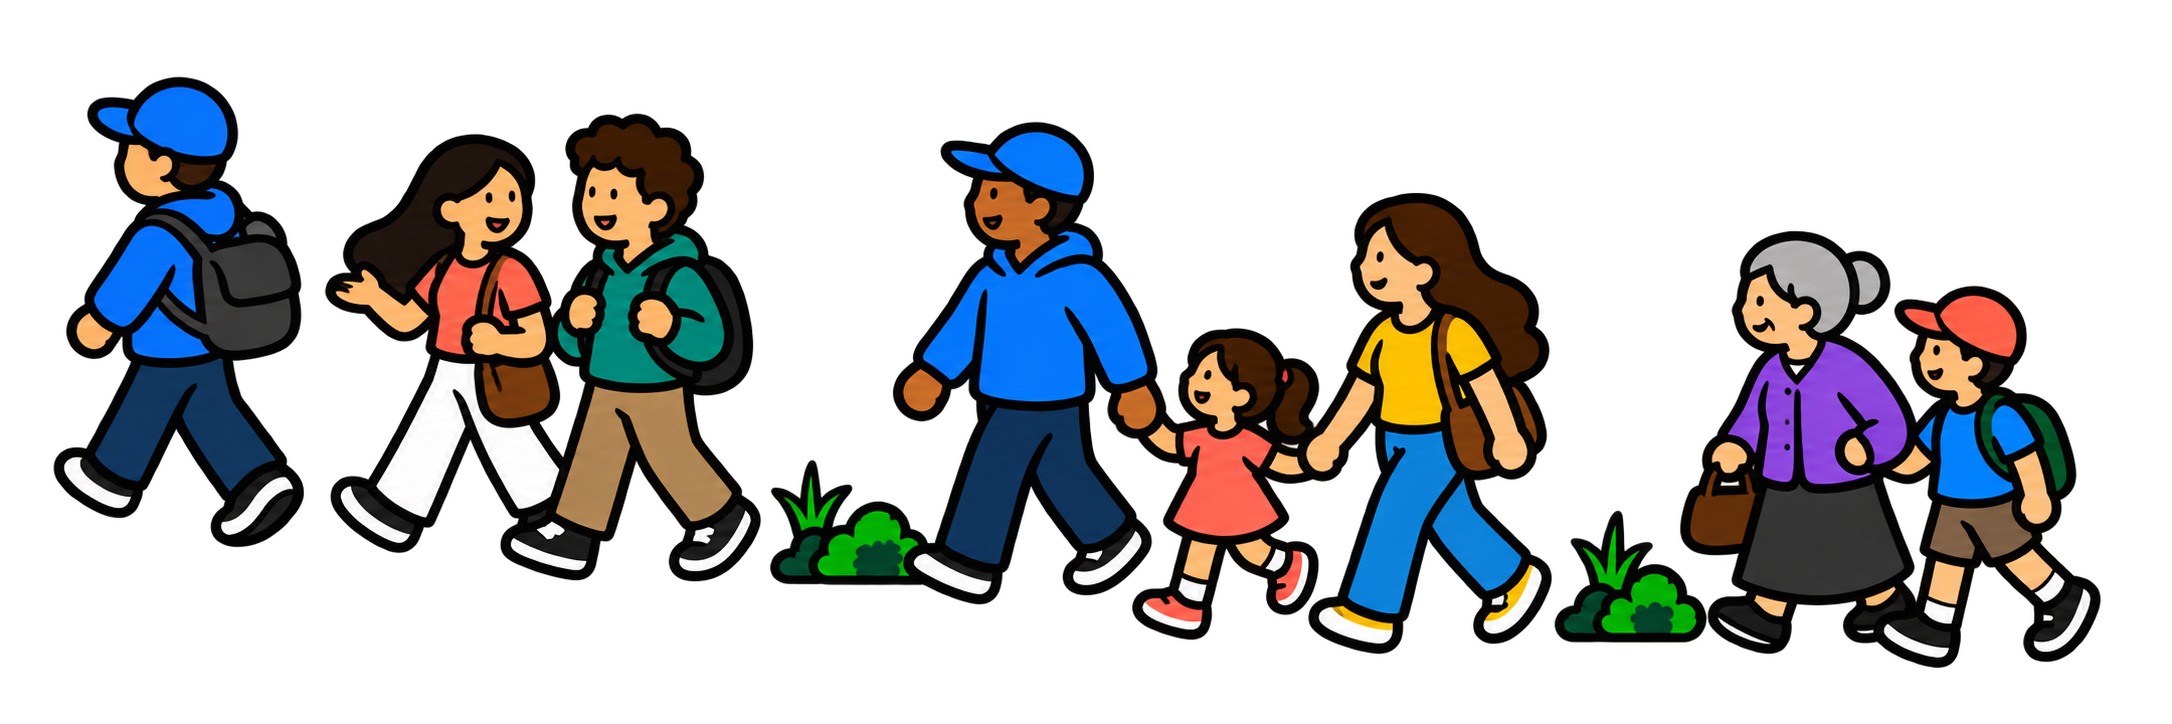
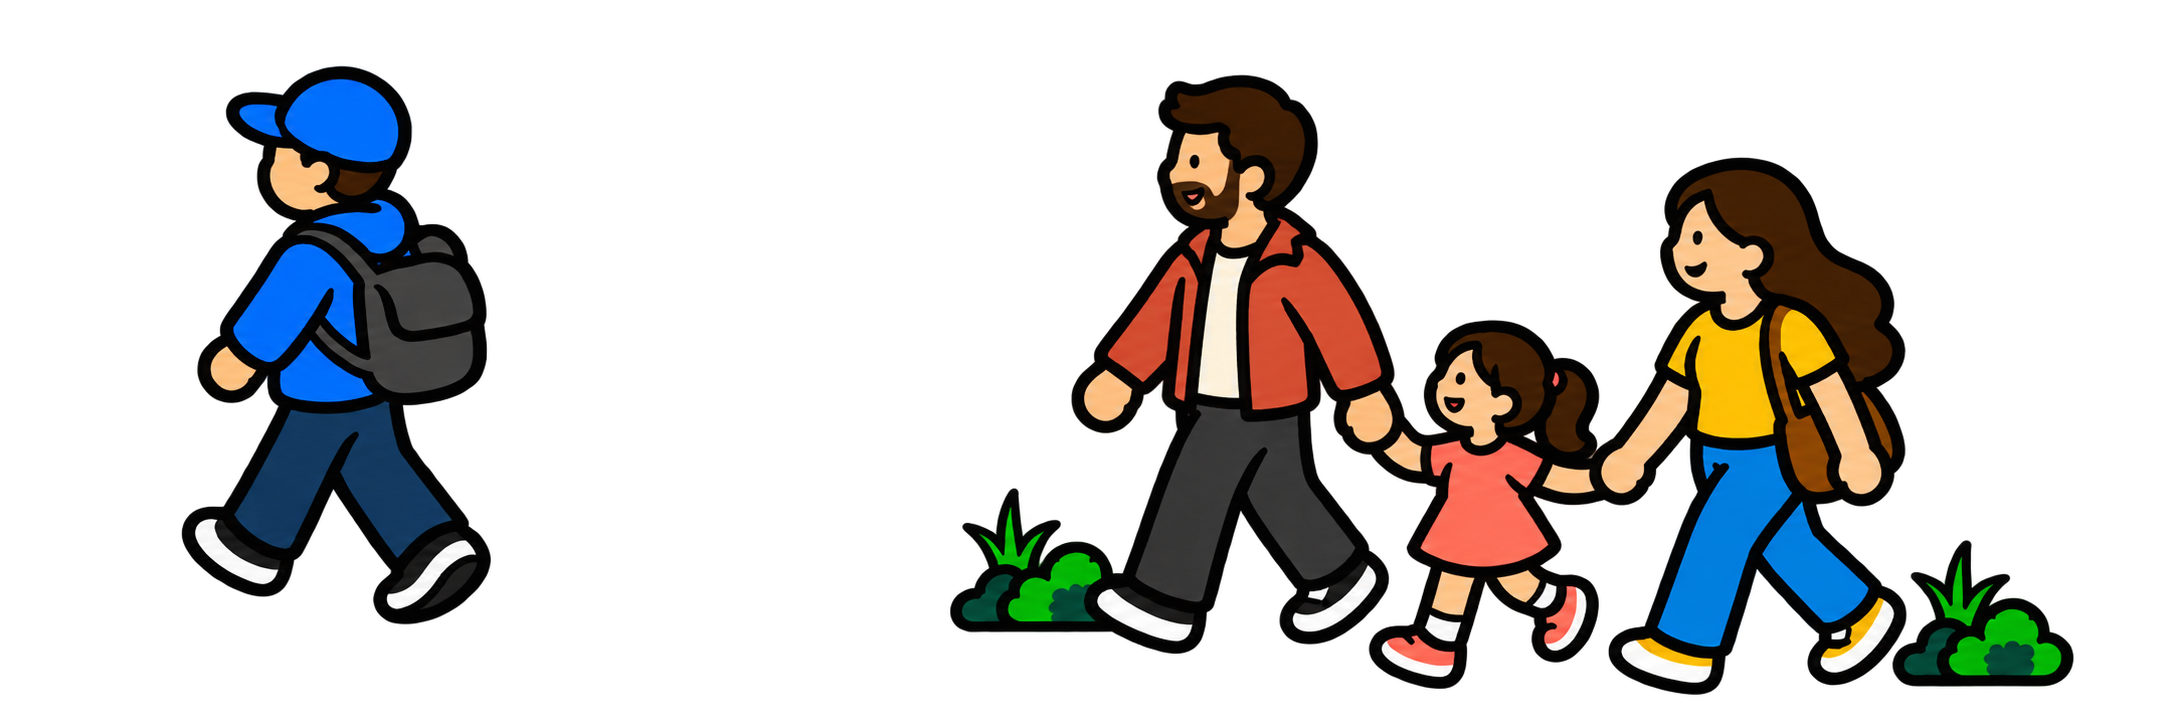
поправил расположение картинок

diff --git a/frontend/src/pages/Home.jsx b/frontend/src/pages/Home.jsx
@@ -116,38 +116,6 @@ export default function Home() {
         <ContactsCard className="home-address" />
         </div>
 
-        {/* Пожертвование */}
-        <div className="home-donate-column">
-        <Link
-          to="/donate"
-          className="home-donate"
-          ref={donationRef}
-          style={{
-            position: 'relative',
-            overflow: 'hidden',
-            borderRadius: 24,
-            background: 'var(--c-main)',
-            color: '#0d0d0d',
-            display: 'flex',
-            flexDirection: 'column',
-            justifyContent: 'space-between',
-            padding: '22px 18px',
-          }}
-        >
-          <div style={{ alignSelf: 'flex-start', background: '#0d0d0d', color: '#fff', padding: '7px 12px', borderRadius: 9, fontFamily: 'var(--f-head)', fontWeight: 700, fontSize: 9, letterSpacing: '.12em', textTransform: 'uppercase' }}>
-            Пожертвование
-          </div>
-          <div>
-            <div className="h-display" style={{ fontSize: 24, lineHeight: 0.92 }}>Поддержать<br />служение</div>
-            <span className="pill-btn" style={{ marginTop: 16, padding: '6px 6px 6px 20px', background: '#0d0d0d', color: '#fff' }}>
-              <span style={{ fontSize: 11.5 }}>Пожертвовать</span>
-              <ArrowKnob size={34} bg="var(--c-main)" fg="#0d0d0d" />
-            </span>
-          </div>
-        </Link>
-        <img className="home-church-people" src="/church-people-details-v3.png" alt="" />
-        </div>
-
         <div className="home-schedule-column" ref={scheduleColumnRef}>
         <div className="home-church">
           <img src="/church-with-people-details-v6.png" alt="" />
@@ -178,6 +146,39 @@ export default function Home() {
           </div>
         </div>
 
+        </div>
+
+        <div className="home-right">
+        {/* Пожертвование */}
+        <div className="home-donate-column">
+        <Link
+          to="/donate"
+          className="home-donate"
+          ref={donationRef}
+          style={{
+            position: 'relative',
+            overflow: 'hidden',
+            borderRadius: 24,
+            background: 'var(--c-main)',
+            color: '#0d0d0d',
+            display: 'flex',
+            flexDirection: 'column',
+            justifyContent: 'space-between',
+            padding: '22px 18px',
+          }}
+        >
+          <div style={{ alignSelf: 'flex-start', background: '#0d0d0d', color: '#fff', padding: '7px 12px', borderRadius: 9, fontFamily: 'var(--f-head)', fontWeight: 700, fontSize: 9, letterSpacing: '.12em', textTransform: 'uppercase' }}>
+            Пожертвование
+          </div>
+          <div>
+            <div className="h-display" style={{ fontSize: 24, lineHeight: 0.92 }}>Поддержать<br />служение</div>
+            <span className="pill-btn" style={{ marginTop: 16, padding: '6px 6px 6px 20px', background: '#0d0d0d', color: '#fff' }}>
+              <span style={{ fontSize: 11.5 }}>Пожертвовать</span>
+              <ArrowKnob size={34} bg="var(--c-main)" fg="#0d0d0d" />
+            </span>
+          </div>
+        </Link>
+        <img className="home-church-people" src="/church-people-details-v3.png" alt="" />
         </div>
 
         {/* Кто мы */}
@@ -218,6 +219,7 @@ export default function Home() {
             </div>
           </div>
         </Link>
+        </div>
       </div>
 
     </div>

diff --git a/frontend/src/styles/pages.css b/frontend/src/styles/pages.css
@@ -15,6 +15,7 @@
 }
 
 .home-left { display: contents; }
+.home-right { display: contents; gap: inherit; }
 .home-hero { grid-column: 1 / 6; grid-row: 1 / 3; }
 .home-donate-column { display: flex; flex-direction: column; grid-column: 9 / 13; grid-row: 1 / 3; gap: inherit; min-width: 0; }
 .home-donate { flex: 1; }
@@ -50,6 +51,16 @@
   .home-church { height: calc(var(--donation-height, 184px) - 8px); }
   .home-hero .h-display > span { font-size: clamp(64px, calc(60dvh - 396px), 112px) !important; }
   .home-hero > p, .home-hero > .pill-btn { margin-top: 6px !important; }
+}
+
+@media (min-width: 1081px) and (max-width: 1440px) {
+  .home-right { display: flex; flex-direction: column; grid-column: 3 / 4; grid-row: 1 / 4; gap: inherit; min-width: 0; }
+  .home-church { height: auto; transform: none; }
+  .home-church img { position: static; transform: none; }
+  .home-donate-column { flex: 1; }
+  .home-about { padding: 12px !important; }
+  .home-about > .h-display { font-size: 44px !important; }
+  .home-about > div:last-child { margin-top: 12px !important; }
 }
 
 @media (max-width: 1080px) {
